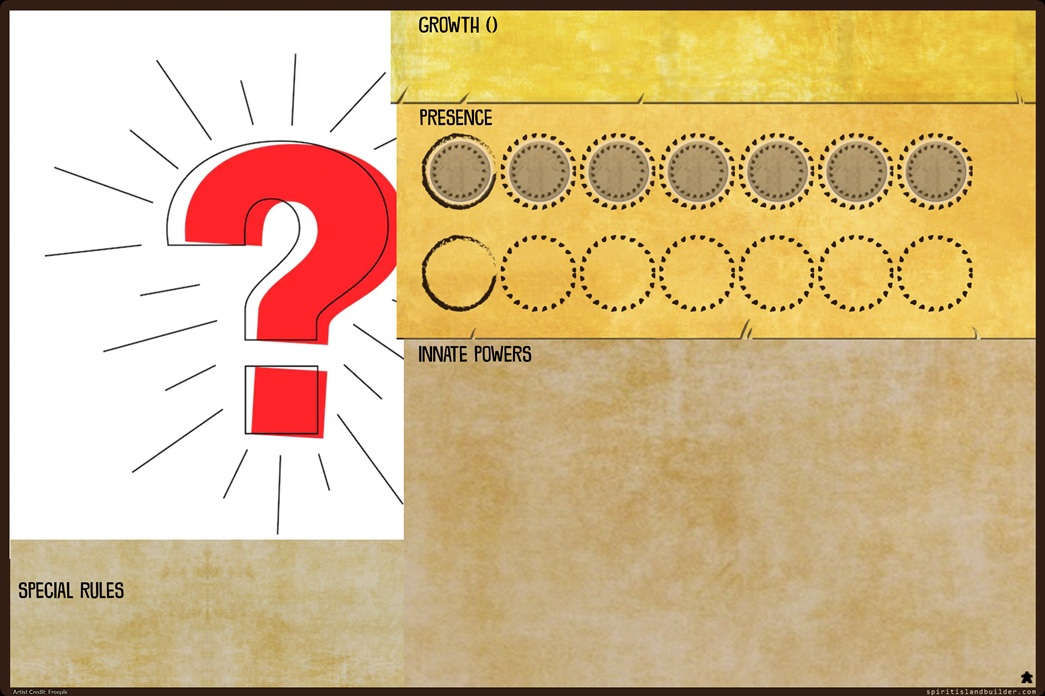
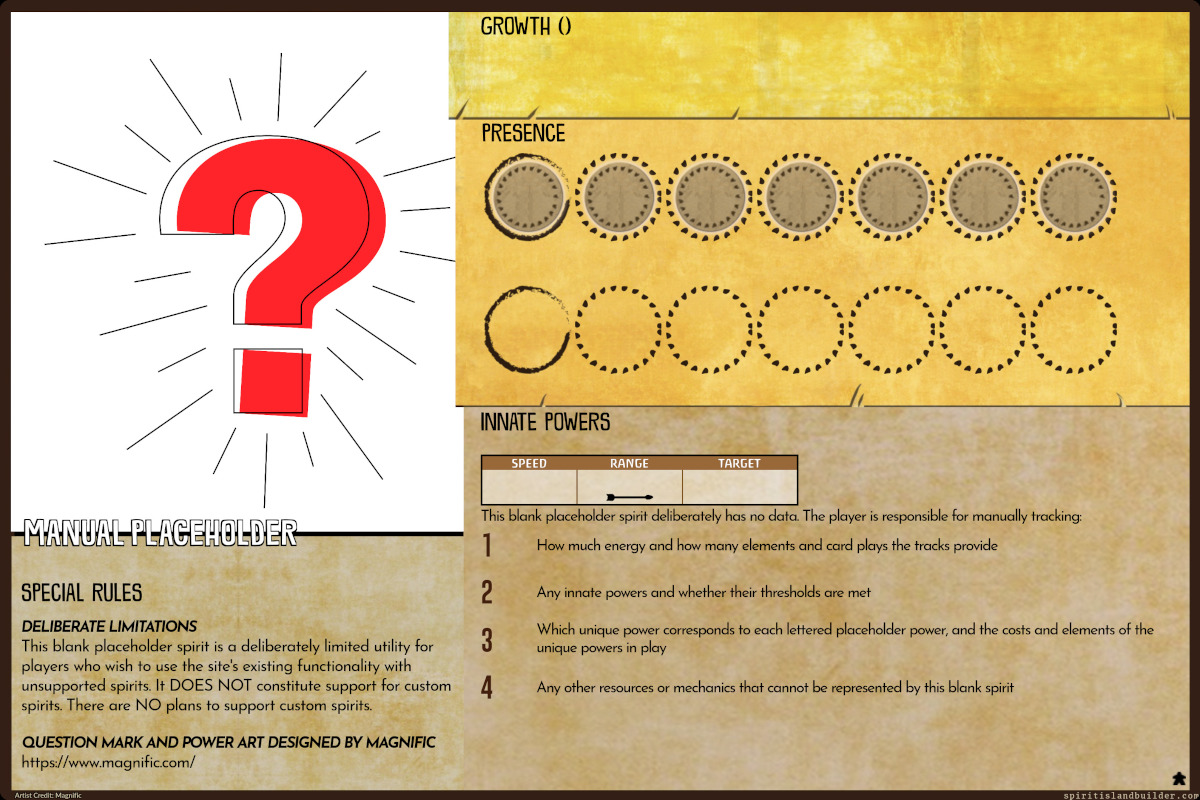
add explanation of manual spirit on its spirit board
as the spirit board changed, this required changing presence positions.

diff --git a/pbf/views.py b/pbf/views.py
@@ -458,8 +458,7 @@ spirit_presence = frozendict({
                 # hoard treasure
                 (13,1146,1.0), (83,1146,1.0), (153,1146,1.0), (223,1146,1.0), (293,1146,1.0), (363,1146,1.0), (433,1146,1.0), (503,1146,1.0), (573,1146,1.0), (643,1146,1.0), (713,1146,1.0), (783,1146,1.0), (853,1146,1.0),
                 ),
-        'ManualPlaceholder': ((449,118,1.0),(521,118,1.0),(594,118,1.0),(665,118,1.0),(737,118,1.0),(809,118,1.0),
-                (449,209,1.0),(521,209,1.0),(594,209,1.0),(665,209,1.0),(737,209,1.0),(809,209,1.0)),
+        'ManualPlaceholder': tuple((449 + 73 * i, y, 1.0) for y in (118, 222) for i in range(6)),
 })
 
 spirit_additional_cards = frozendict({
